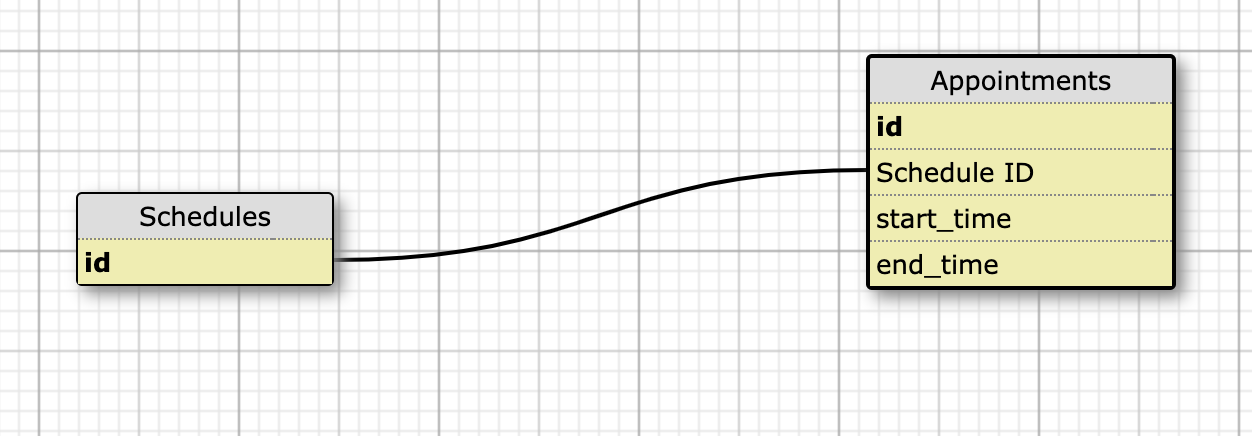
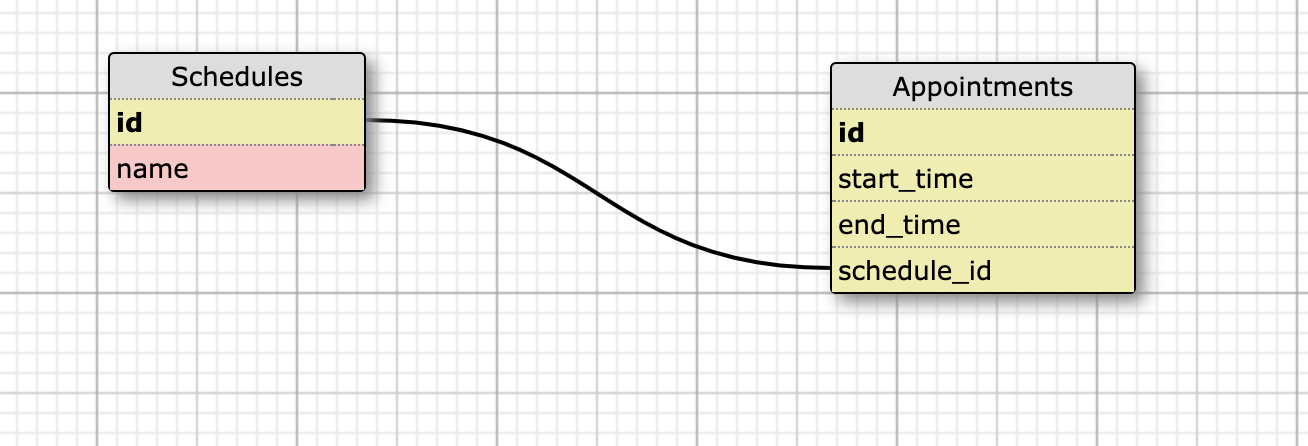
Add doc for schedule name

diff --git a/README.md b/README.md
@@ -1,5 +1,12 @@
 # ScheduleManagerAPI
 
+## Unusual Design Choices
+There are a few things I've attempted to adhere to that have made this code a little different than some Rails apps I've made in the past. In particular are the private helper methods I've included in the controllers as well as the Appointment model. I wanted to make sure each method adhered to a single-responsibility principle, and additionally I attempted to keep the code as readable as possible. I was able to keep most methods between 1-2 lines this way but it involved in many cases adding additional helper methods. The Appointment instance methods ended up being written in an unusual way that tested if it violated specific issues. It caused more code to be written, but it gave feedback to the user on what exactly went wrong. I had difficulty deciding how to nest the urls. I ultimately decided that schedule needed to be included in order to add or remove appointments (it seemed more in line with security if this were to be built out more to include authorization), but that it did not seem necessary to include the schedule id to see a single appointment, especially since I opted to return that id in the JSON object.
+
+I worked for a really long time with the schedule not having any additional attributes beyond the appointments (this was the Minimum Viable Product with the given prompts), but this ultimately made me feel strange, so I ended up including a schedule name at the very end.
+
+I was not completely clear on the prompt regarding server time being frozen at integer 0. I just assumed this meant that appointment times would be scheduled as integers, but that real time had nothing to do the scheduling of appointments. Therefore, no timestamps were necessary. Hopefully, this is not some glaring missing piece.
+
 ## Initial Setup
 
 #### 1. Clone down the repo:
@@ -48,10 +55,26 @@ GET /api/v1/schedules/:id
 
 ### CREATE A Schedule
 
-#### In order to read a schedule, make a POST request to the following URI:
+#### In order to read a schedule, make a POST request to the following URI with a name in a body:
 
 ```
 POST /api/v1/schedules
+```
+
+#### Request Body:
+
+```
+{
+  "name": <STRING>
+}
+```
+
+#### Example Request:
+
+```
+{
+  "name": "My Schedule"
+}
 ```
 
 #### This will return a newly created Schedule object with its unique id
